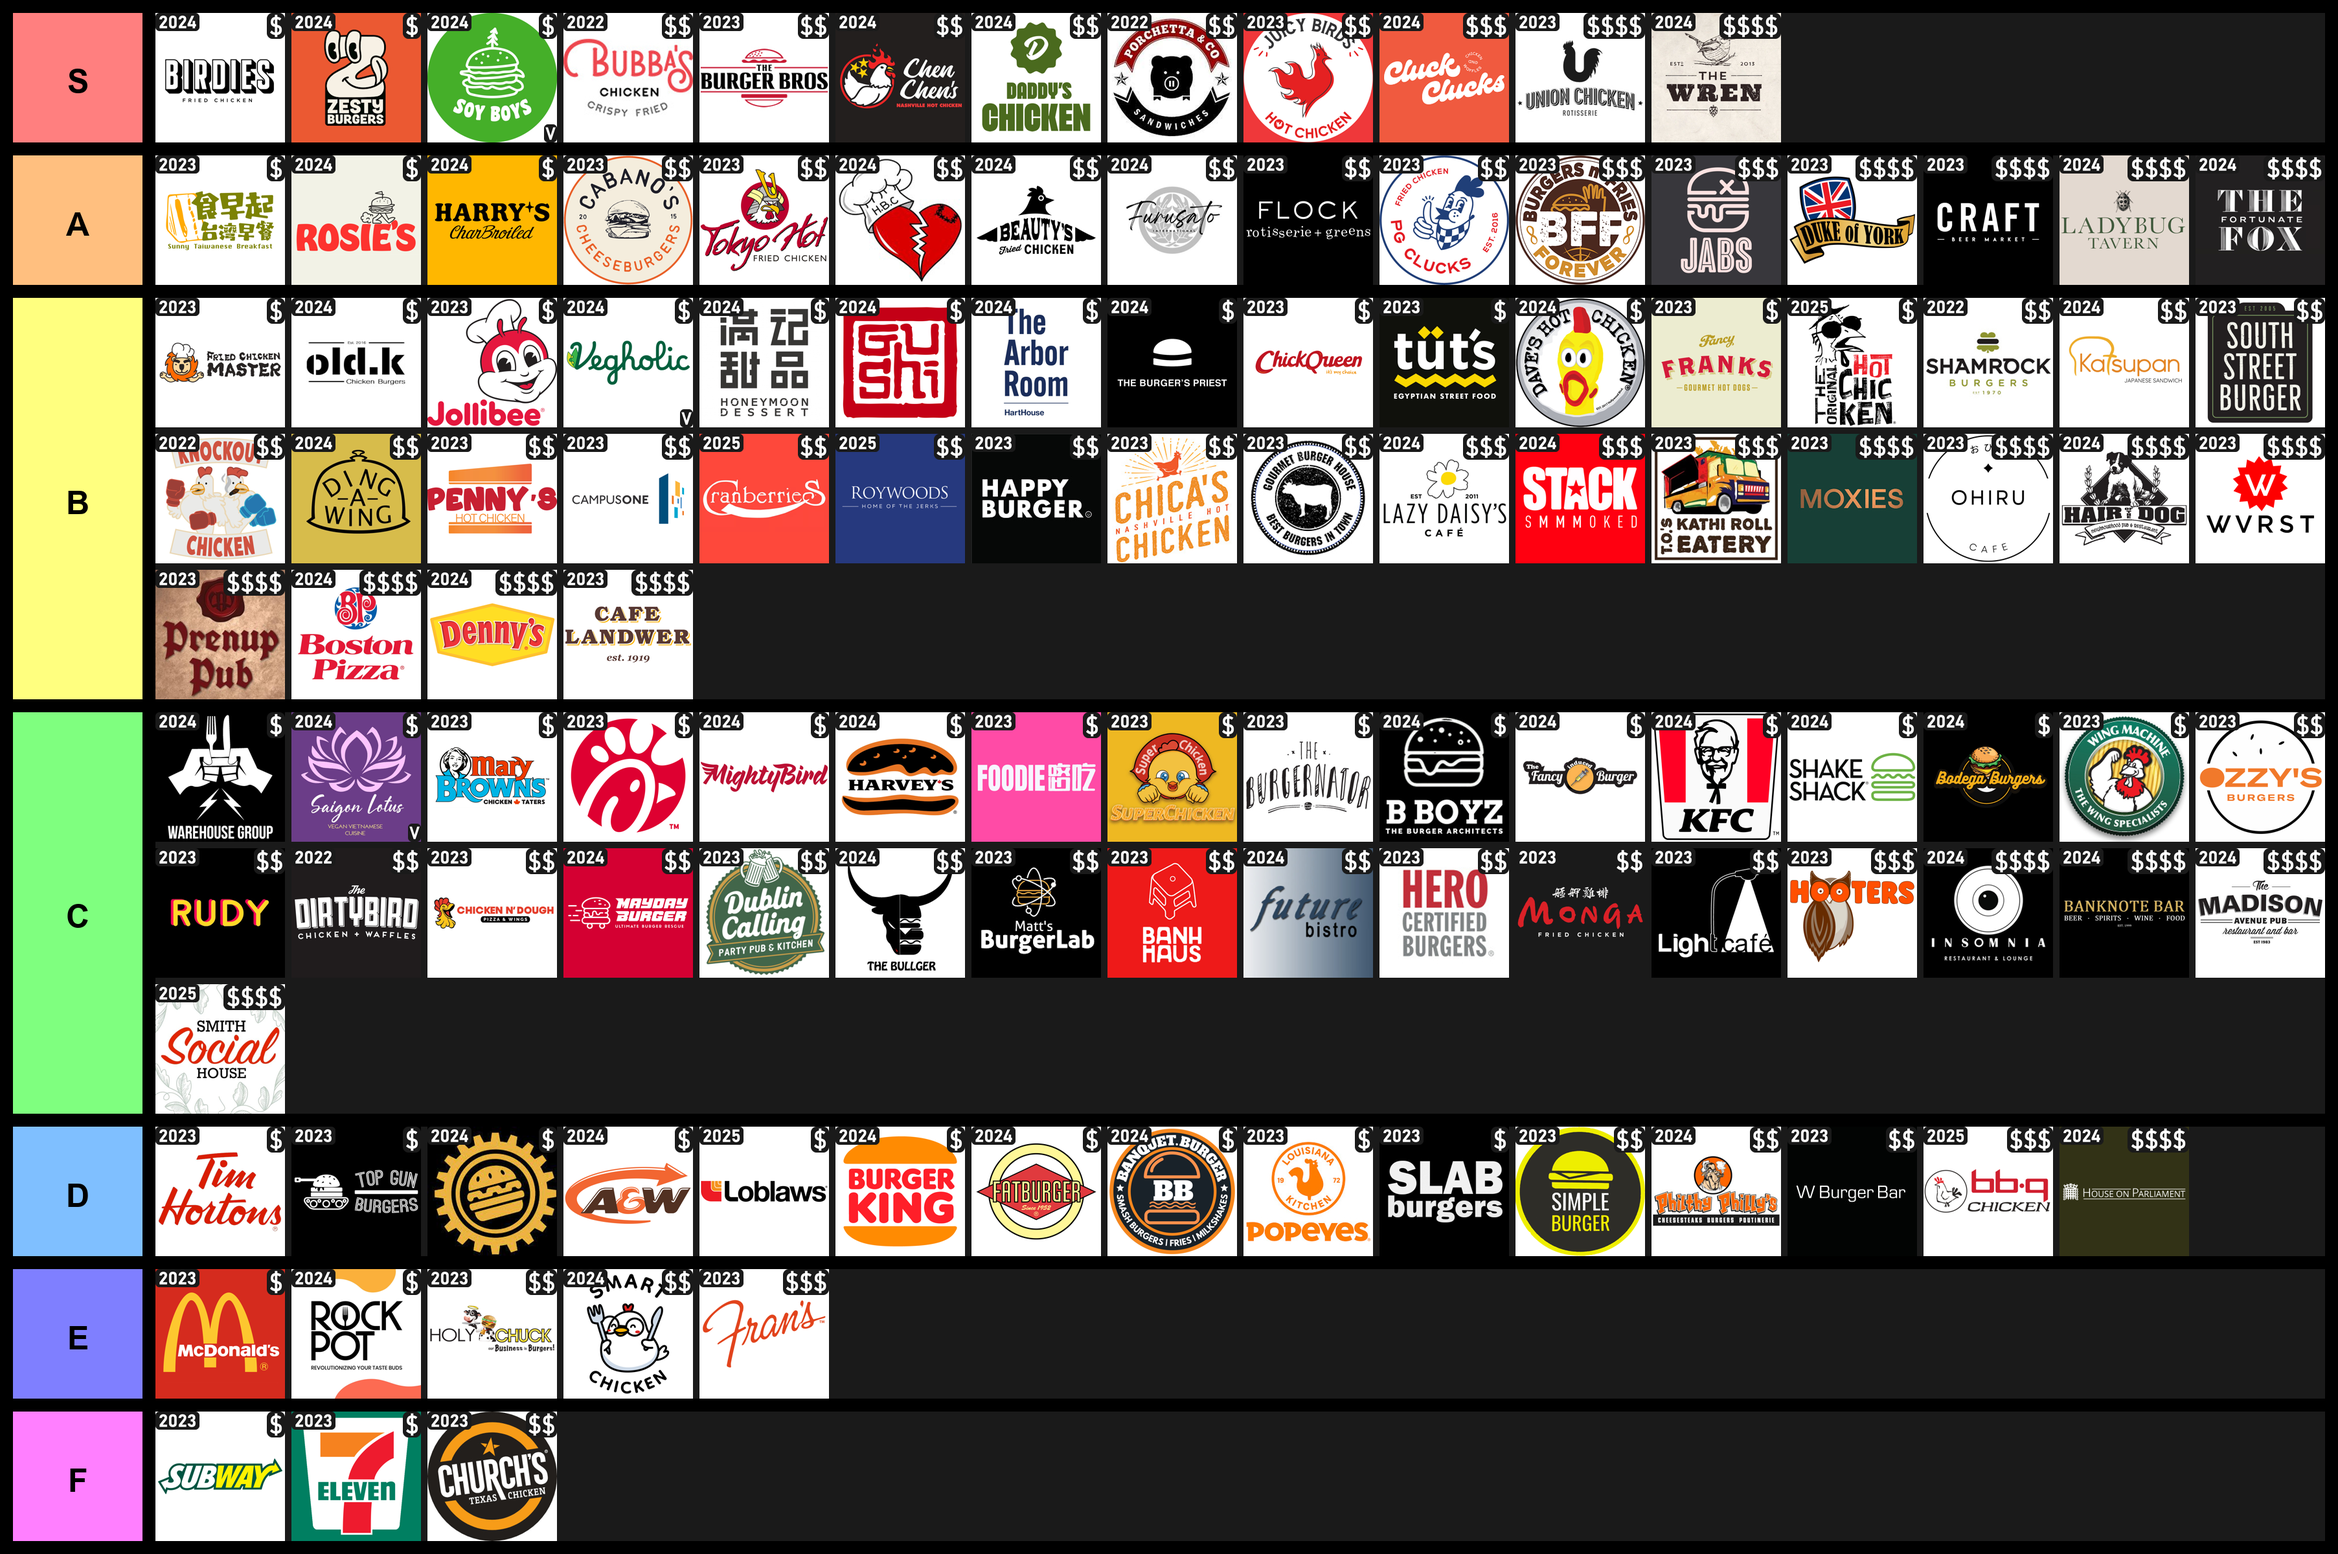
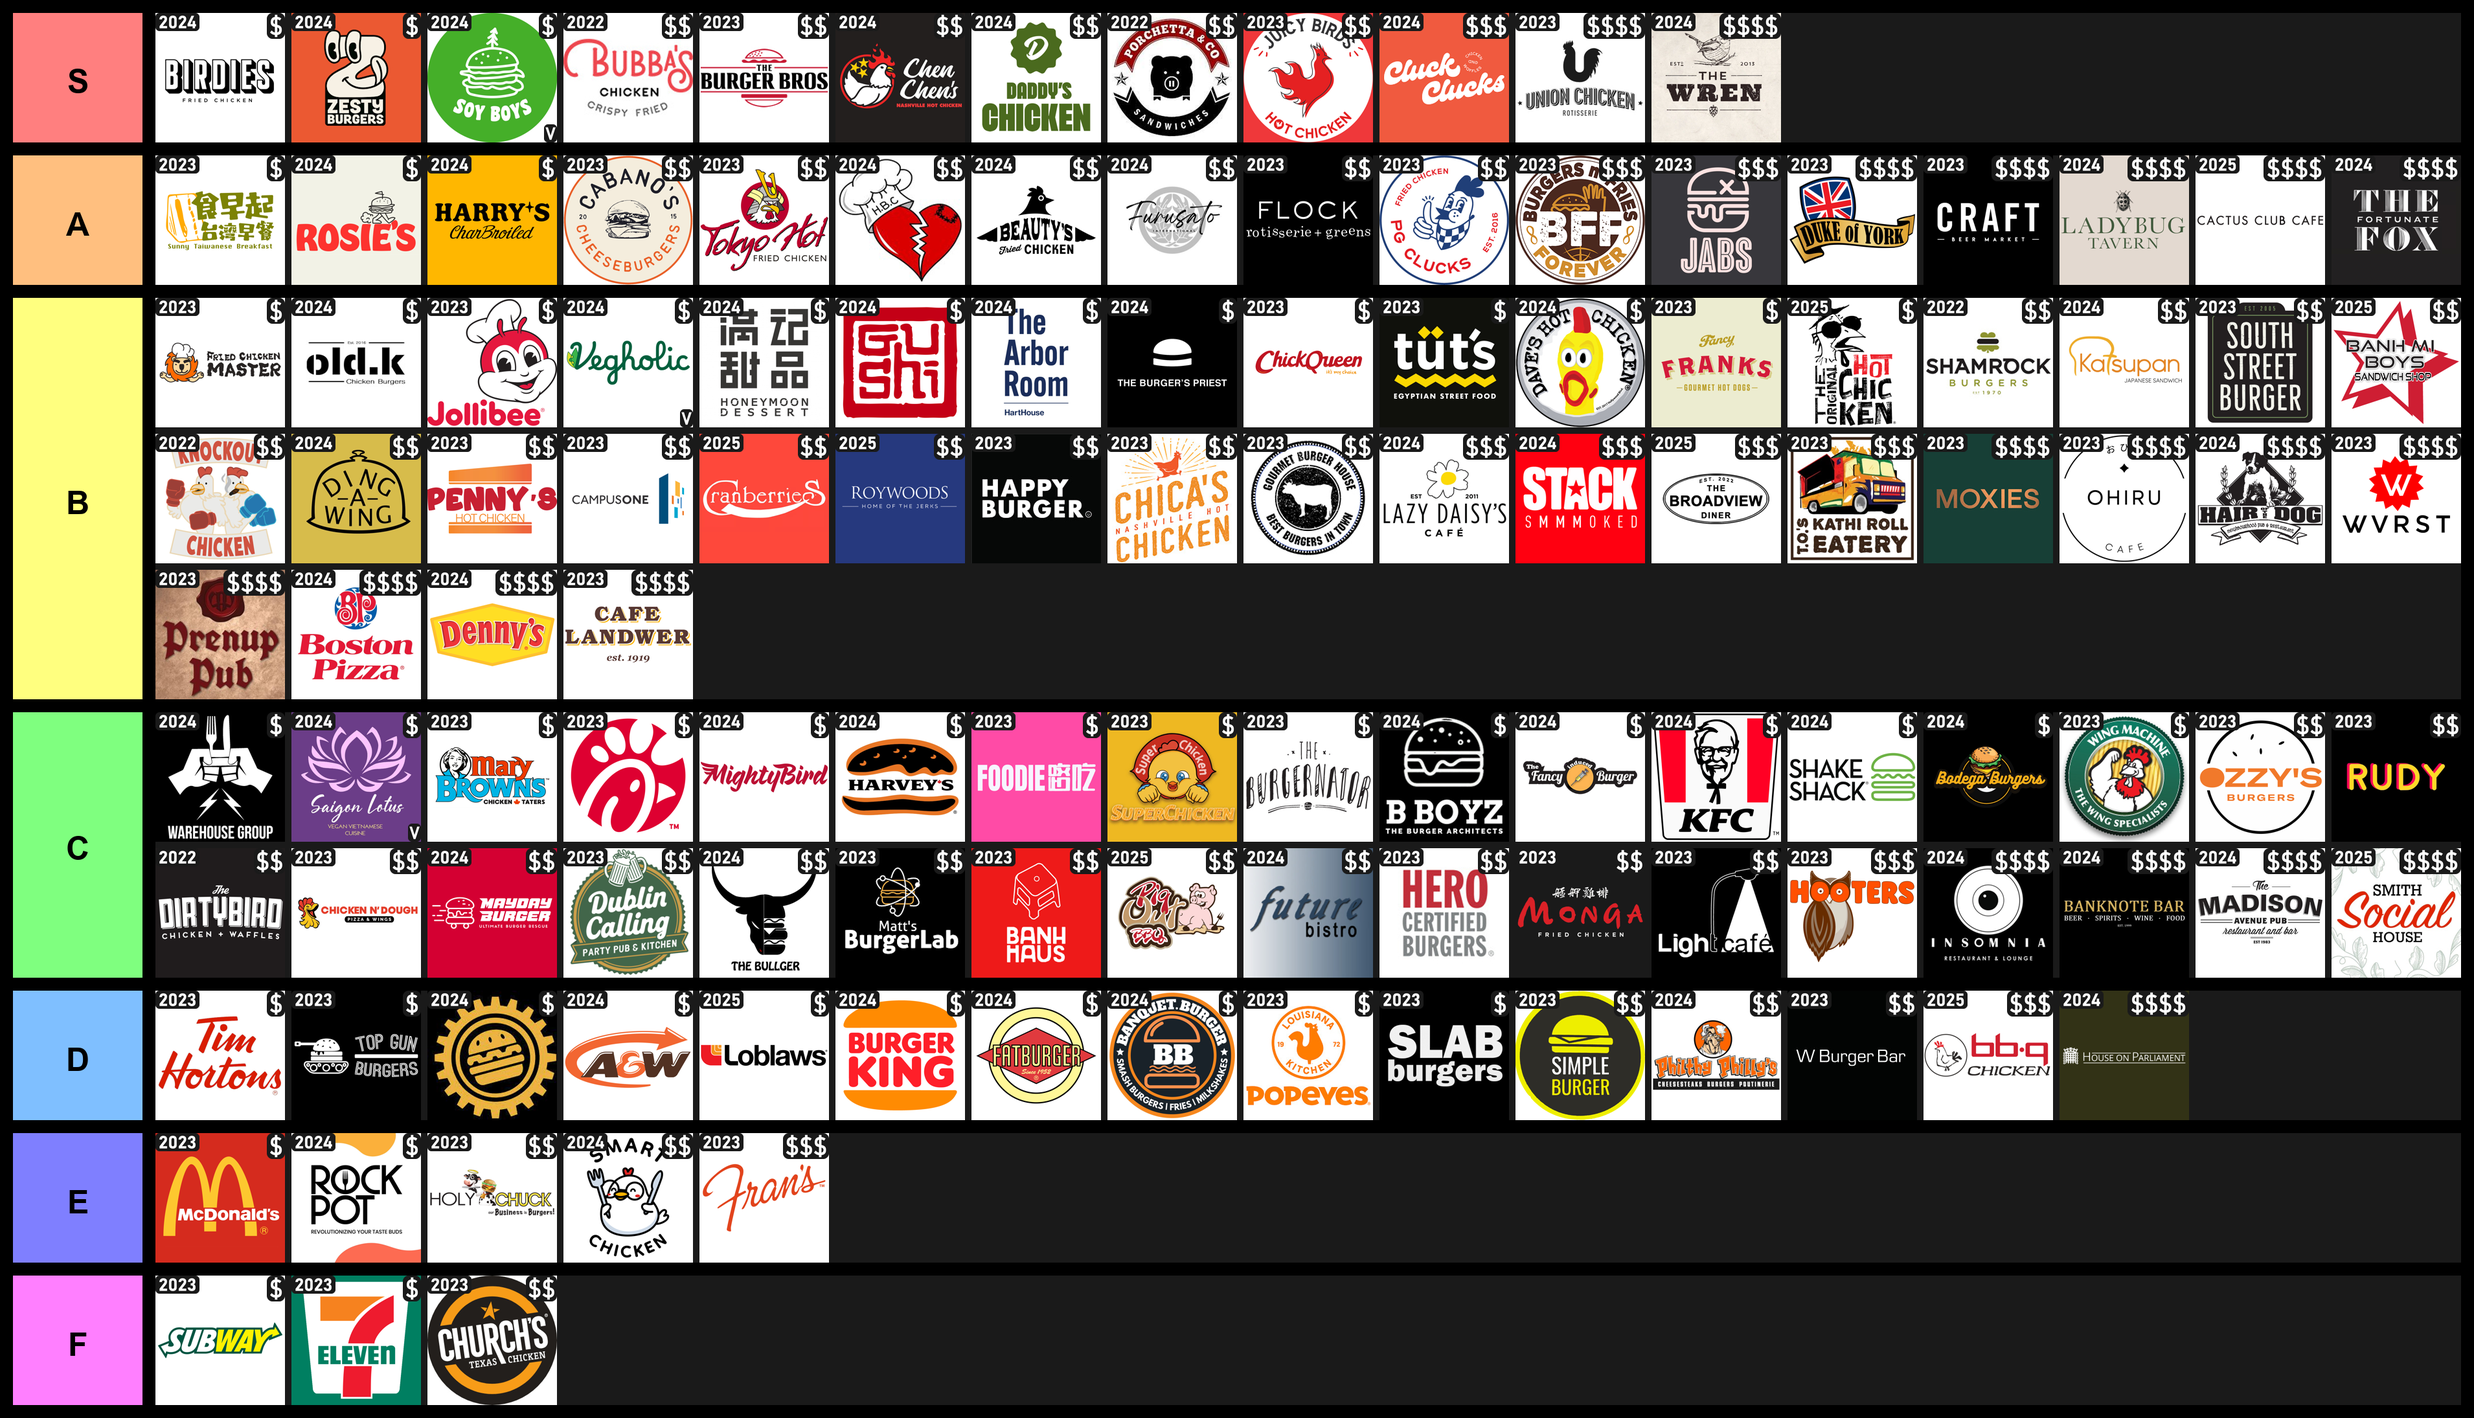
Bulk add new places
* Update requirements.txt

* Remove googlemaps reference, no longer used

* Add Cactus Club Cafe

* Add Pig Out BBQ

* Add The Broadview Diner

* Add Bahn Mi Boys

diff --git a/helper.py b/helper.py
@@ -1,8 +1,6 @@
 """A helper file containing functions used by tierlist.py and main.py"""
 
 import discord
-import googlemaps
-from googlemaps import places
 import requests
 from pathlib import Path
 from datetime import datetime
@@ -23,11 +21,11 @@ token = os.getenv("token")
 test_token = os.getenv("test_token")
 key = os.getenv("key")
 author_id = os.getenv("author_id")
-try:
-    gmaps = googlemaps.Client(key=key)
-except ValueError:
-    # Likely tierlist.py has been called without defined key in the env file
-    pass
+# try:
+#     gmaps = googlemaps.Client(key=key)
+# except ValueError:
+#     # Likely tierlist.py has been called without defined key in the env file
+#     pass
 client = pymongo.MongoClient(connection_string, tlsCAFile=certifi.where())
 db = client["fried-chicken-sandwich-bot"]
 collection = db["gmaps_infos"]
